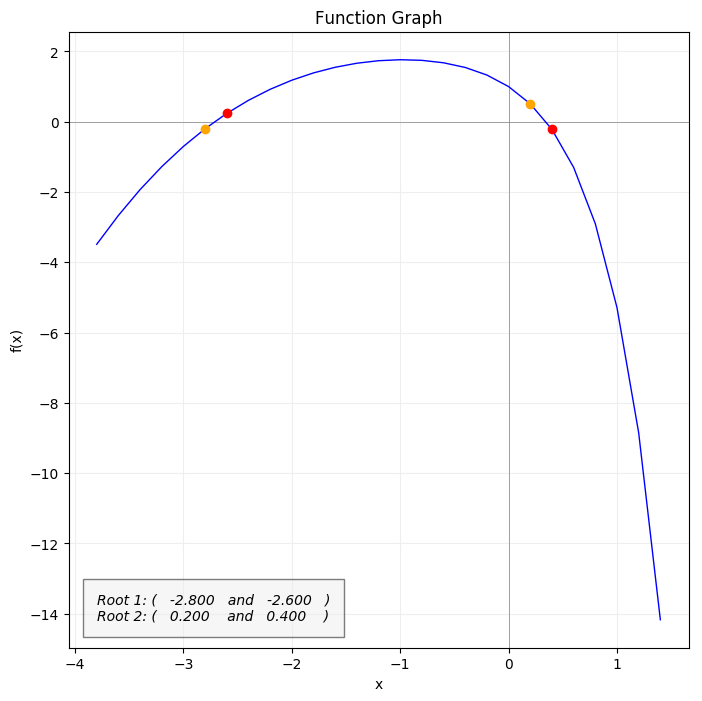
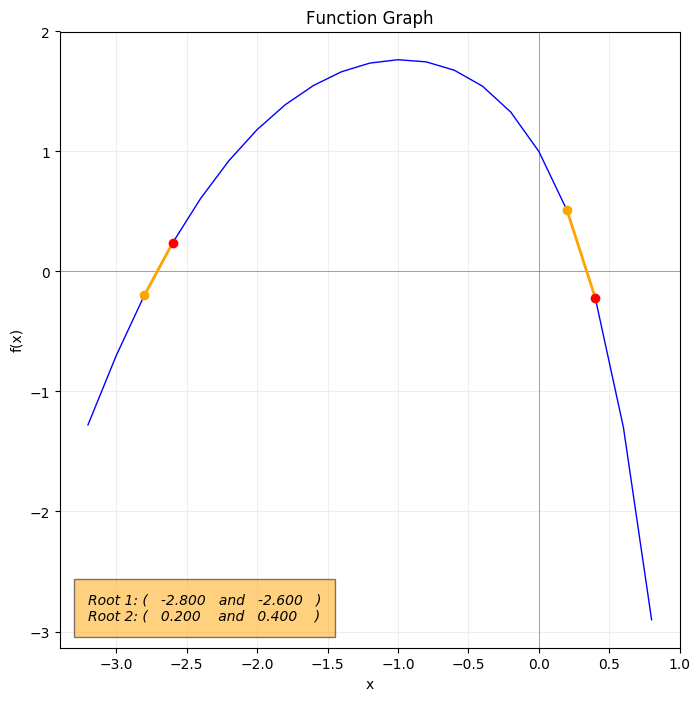
Some changes on plot.py

diff --git a/chapter1/plot.py b/chapter1/plot.py
@@ -3,36 +3,43 @@ from lib import *
 
 # MAIN:
 space = np.arange(LOW_LIMIT, HIGH_LIMIT+1, STEPS)
-all_points = []
-sub_points = []
+points = []
 roots = [[],[],[],[]]
-roots_str = ""
-
-for i in space:
-    if all_points and f(i)*all_points[-1] < 0:
+for i in space: # Looking for ROOTS of the equation on defined interval:
+    if points and f(i)*points[-1] < 0:
         roots[0].append(i-STEPS)    # Root X Start
-        roots[1].append(i)      # Root X End
+        roots[1].append(i)          # Root X End
         roots[2].append(f(i-STEPS)) # Root Y Start
-        roots[3].append(f(i))   # Root Y End
-    all_points.append(f(i))
+        roots[3].append(f(i))       # Root Y End
+    points.append(f(i))
 
-sub_space = np.arange(roots[0][0]-1, roots[1][-1]+1, STEPS)
+if roots[0]: # If there is at least one root in the interval:
+    space = np.arange(roots[0][0]-(2*STEPS), roots[1][-1]+(2*STEPS), STEPS)
 
-for i in sub_space:
-    sub_points.append(f(i))
+points = [] # Fill the points based on the new space:
+for i in space:
+    points.append(f(i))
 
+rpoints = [[],[]]
+for i in range(len(roots[0])):
+    rpoints[0].append([roots[0][i],roots[1][i]]) # X
+    rpoints[1].append([f(roots[0][i]),f(roots[1][i])]) # Y
+
+roots_str = "" # Fill the graph roots box str:
 for i in range(len(roots[0])):
     roots_str += "Root {}: ( {:^10.3f} and {:^10.3f} )\n".format(i+1, roots[0][i], roots[1][i])
 
 pl.figure(num=1, figsize=(8,8))
 pl.get_current_fig_manager().window.wm_geometry("+25+50")
 pl.title("Function Graph")
-pl.text(sub_space[0], min(sub_points), roots_str[:-1], style='italic', bbox={'facecolor': '#eeeeee', 'alpha': 0.5, 'pad': 10})
+pl.text(space[0], min(points), roots_str[:-1], style='italic', bbox={'facecolor': 'orange', 'alpha': 0.5, 'pad': 10})
 pl.ylabel("f(x)")
 pl.xlabel("x")
 pl.axhline(y=0, color='grey', linewidth = .5)
 pl.axvline(x=0, color='grey', linewidth = .5)
-pl.plot(sub_space, sub_points, color='blue', linewidth = 1)
+pl.plot(space, points, color='blue', linewidth = 1)
+for i in range(len(rpoints[0])):
+    pl.plot(rpoints[0][i], rpoints[1][i], color='orange', linewidth = 2)
 pl.plot(roots[0], roots[2], 'o', color='orange', linewidth = 1)
 pl.plot(roots[1], roots[3], 'o', color='red', linewidth = 1)
 pl.grid(linestyle='-', color='#eeeeee')

diff --git a/chapter1/lib.py b/chapter1/lib.py
@@ -4,7 +4,7 @@ import matplotlib.pyplot as pl
 
 # Constants:
 ERRO = 1e-2
-STEPS = 1e-1*2
+STEPS = 2e-1
 LOW_LIMIT = -100
 HIGH_LIMIT = 100
 START_A = -3
@@ -30,3 +30,4 @@ def f(x):
     #return (np.e**(np.cos(x))) + (x**3) - (3)
     return (0.1*(x**3)) - (np.e**(2*x)) + (2)
     #return (x**3) - (5*(x**2)) + x + 3
+    #return x**2 + 2
